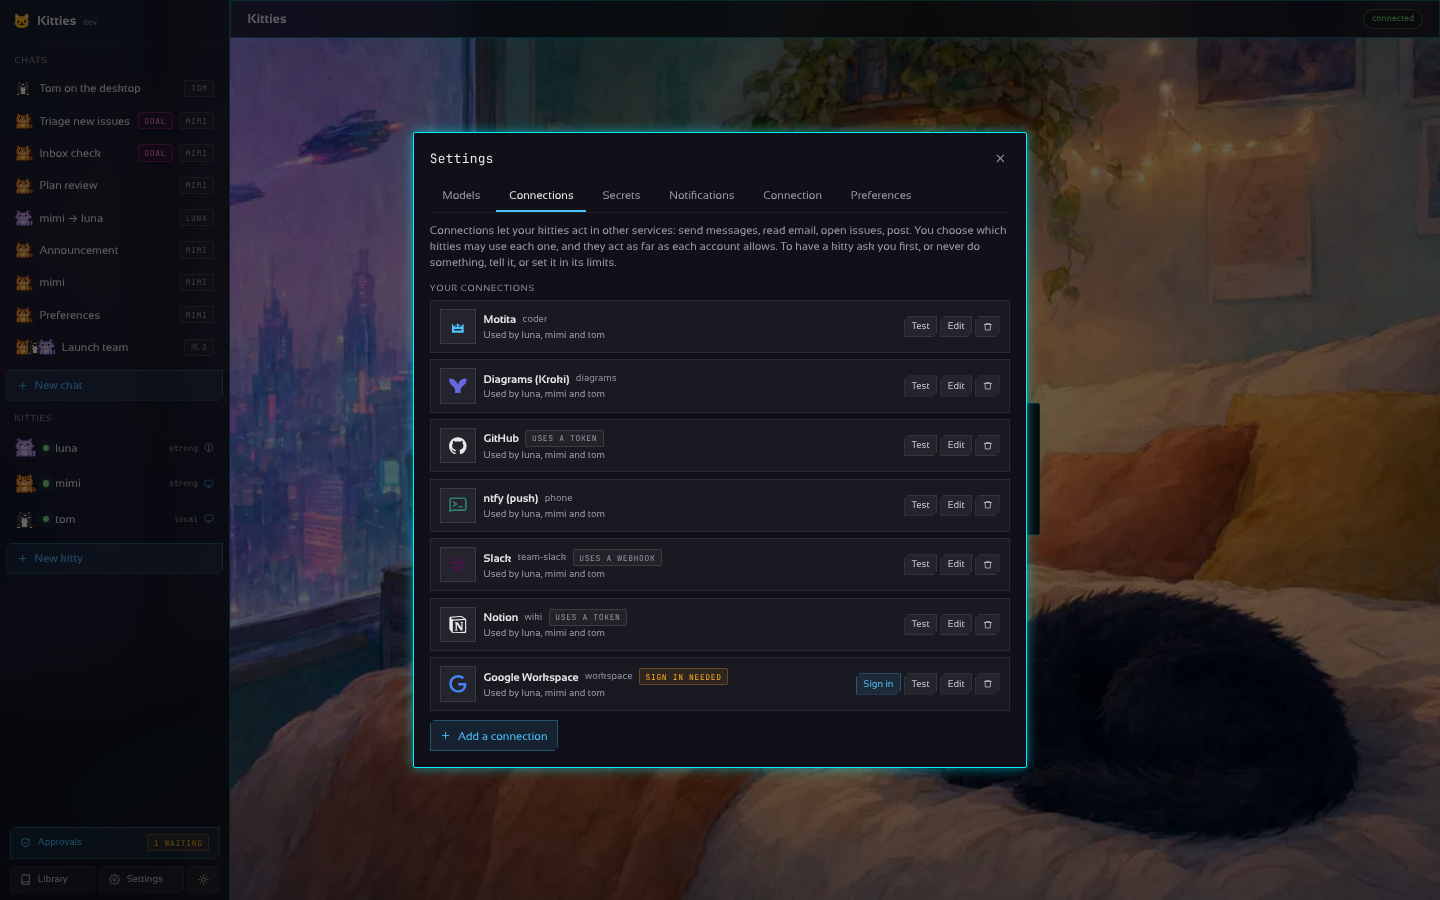
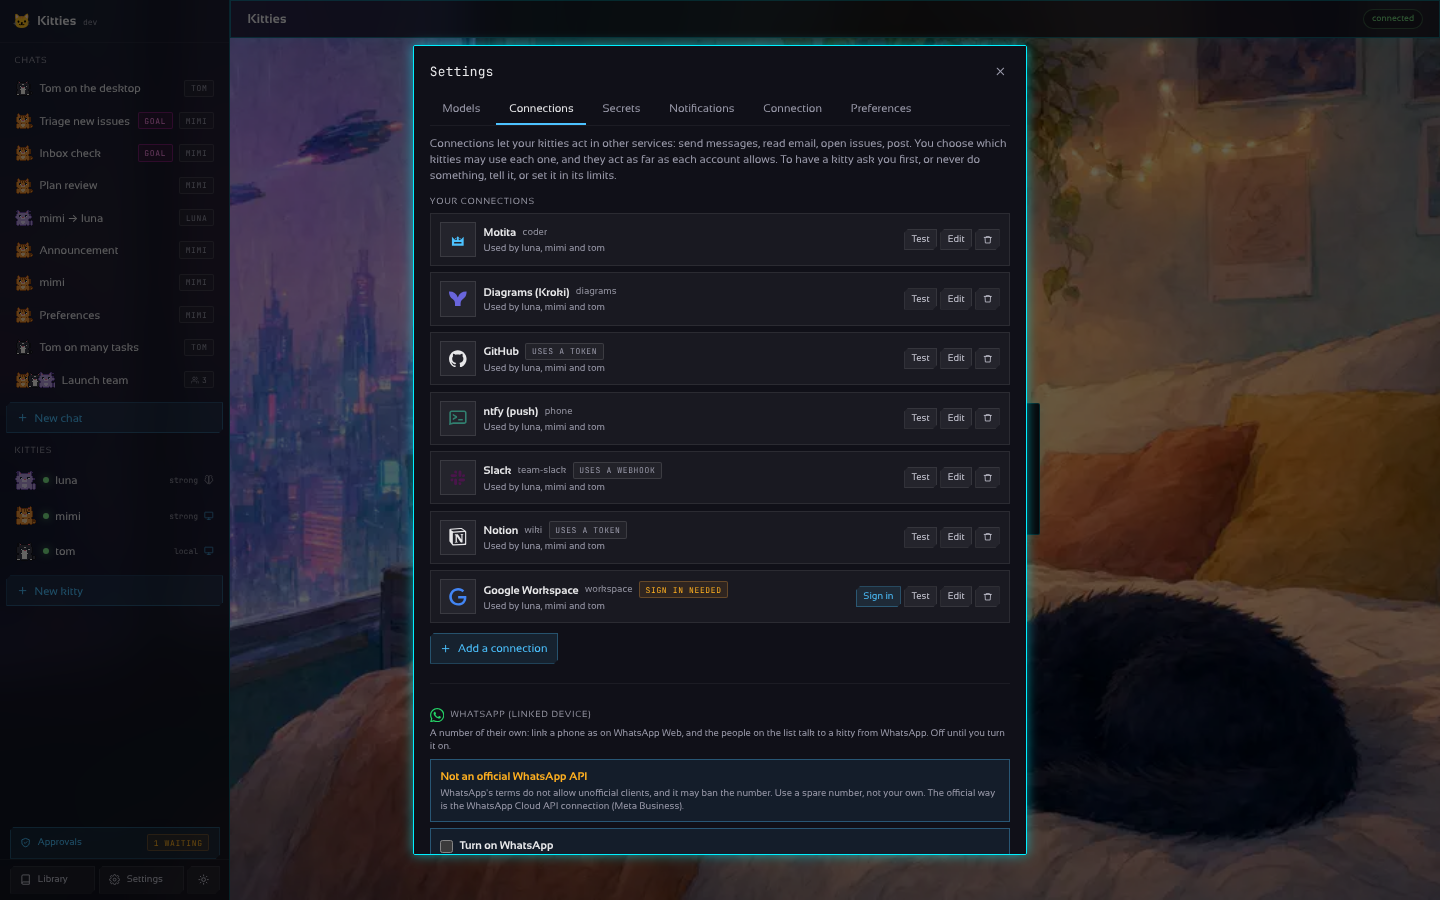
docs(whatsapp): guide in English and Spanish, the ToS risk and the Cloud API alternative
Claude-Session: https://claude.ai/code/session_017Z7sUbSYL2DPKWnmDEkcnW

diff --git a/docs/WHATSAPP.es.md b/docs/WHATSAPP.es.md
@@ -1,0 +1,93 @@
+# WhatsApp: un número propio para los kitties
+
+[In English](WHATSAPP.md)
+
+Kitties puede vincularse a un número de WhatsApp como lo hace WhatsApp Web: como **dispositivo
+vinculado** de un teléfono, con un código QR que aparece en Ajustes. Desde ahí, las personas que
+pongas en la lista escriben a ese número y uno de tus kitties les responde, y los kitties pueden
+escribirles con el conector `whatsapp-web`.
+
+![WhatsApp en Ajustes, esperando el código QR](screenshots/60-settings-whatsapp.png)
+
+> [!WARNING]
+> **No es una API oficial.** Los términos de servicio de WhatsApp no permiten clientes no oficiales
+> ni automatizados, y WhatsApp puede bloquear un número usado así, por un tiempo o para siempre.
+> Usa un **número de repuesto** (otra SIM, una línea prepago), nunca el tuyo, y mantén un uso bajo y
+> personal (nada de envíos masivos ni a desconocidos).
+>
+> **La alternativa oficial** es la [WhatsApp Business Cloud API](https://developers.facebook.com/docs/whatsapp/cloud-api)
+> de Meta: la conexión `whatsapp` del catálogo (Ajustes, Conexiones, Agregar una conexión,
+> WhatsApp) envía mensajes con ella. Necesita una cuenta de Meta Business y un número registrado
+> allí, y fuera de una ventana de 24 horas solo se pueden mandar plantillas aprobadas; a cambio está
+> permitida y no se bloquea por ser automática.
+
+## Activarlo
+
+1. Ajustes, **Conexiones**, la sección **WhatsApp (dispositivo vinculado)** al final.
+2. Elige **el kitty que responde** y agrega los **números que pueden escribir** con su código de
+   país (`+56 9 1234 5678`). La lista parte vacía: hasta que agregues a alguien, se ignora todo
+   mensaje.
+3. Marca **Activar WhatsApp**, luego **Entiendo que WhatsApp puede bloquear este número**, y
+   **Guardar**.
+4. Aparece un código QR. En el teléfono del número de los kitties: WhatsApp, Ajustes,
+   **Dispositivos vinculados**, **Vincular un dispositivo**, y apunta al código. El código cambia
+   cada pocos segundos; si se acaban, **Mostrar un código nuevo**.
+5. Cuando diga **Conectado · +número**, **Enviar una prueba** escribe a un número de la lista.
+
+El teléfono debe seguir encendido y conectarse de vez en cuando (WhatsApp desvincula un dispositivo
+cuyo teléfono lleva unas dos semanas apagado). **Desvincular** quita el dispositivo del teléfono y
+olvida la sesión.
+
+## Cómo funciona
+
+- **Un chat por número.** El primer mensaje de un número abre un chat `WhatsApp: <nombre>` con el
+  kitty elegido; los siguientes van al mismo chat, así que también ves la conversación en la página.
+  La respuesta vuelve a WhatsApp con su Markdown convertido a las marcas de WhatsApp (`*negrita*`,
+  `_cursiva_`). Una tarea en el escritorio se sigue: las primeras palabras van al tiro y el resultado
+  cuando termina.
+- **Solo texto, solo uno a uno.** Todavía no responde grupos, fotos, audios ni stickers.
+- **La lista funciona en ambos sentidos.** Un mensaje de un número que no está se ignora (y se
+  cuenta en Ajustes) sin respuesta; los kitties solo pueden escribir a números de la lista.
+- **Los kitties escriben con el conector.** Mientras el vínculo está conectado, `whatsapp-web` se
+  ofrece a los kitties (los que tienen su lista de conexiones vacía o lo nombran):
+
+  ```
+  @connector whatsapp-web {"action": "send", "to": "+56912345678", "text": "El informe está listo."}
+  @connector whatsapp-web {"action": "status"}
+  ```
+
+  Sin `to` escribe a quien escribió último (o al único número de la lista). Un envío llega a otras
+  personas, así que como todo `send` **queda retenido para tu aprobación** hasta que confíes en el
+  kitty para eso ([AUTONOMY.md](AUTONOMY.md)). Las respuestas a quien escribió no se retienen: lo
+  pidió.
+
+## Dónde se guarda cada cosa
+
+| Qué | Dónde | Cómo |
+| --- | --- | --- |
+| Encendido o no, la lista, el kitty, el chat de cada número | `<data>/whatsapp/settings.json` | modo 0600, sin secretos |
+| La sesión del dispositivo vinculado (sus llaves, las sesiones Signal, los contactos) | `<data>/whatsapp/session.bin` | **sellada** con la llave del vault (AES-256-GCM, atada a su uso); nunca en claro |
+
+La sesión es el estado de la librería guardado en memoria y sellado entero: el gateway no usa un
+archivo SQLite ni otro almacenamiento plano. La llave es la del vault (`vault.key` al lado, o
+`KITTIES_VAULT_KEY`); sin vault (una carpeta de datos de solo lectura) WhatsApp no se puede activar
+y Ajustes dice por qué. Una sesión que no abre con la llave (la llave cambió) no se usa: se vincula
+el teléfono de nuevo con otro código.
+
+## La API
+
+| Ruta | Qué hace |
+| --- | --- |
+| `GET /v1/whatsapp` | El vínculo: `enabled`, `allow`, `kitty`, `state` (`off`, `starting`, `qr`, `qr_expired`, `connected`, `disconnected`, `logged_out`, `error`), `qr` y `qr_png` (un data URL PNG) mientras espera, `phone`, `linked`, `ignored` |
+| `PUT /v1/whatsapp` | `{"enabled", "allow", "kitty"}`; activarlo necesita `"accept_risk": true` |
+| `POST /v1/whatsapp/link` | Códigos QR nuevos (si expiraron o el teléfono quitó el dispositivo) |
+| `POST /v1/whatsapp/unlink` | Quita el dispositivo del teléfono y olvida la sesión |
+| `POST /v1/whatsapp/test` | `{"to": "+56912345678"}` manda un mensaje corto a un número de la lista |
+
+## Por dentro
+
+El protocolo es [whatsmeow](https://github.com/tulir/whatsmeow) (MPL-2.0), el protocolo multi-
+dispositivo de WhatsApp Web en Go. `internal/whatsapp` es el puente (ajustes, lista, chats, conector)
+y no sabe nada del protocolo; `internal/whatsapp/wameow` es la conexión y el almacenamiento en
+memoria que se exporta, se sella y se vuelve a leer. El puente se prueba con un cliente falso; el
+almacenamiento y la conexión, con un falso del cliente de whatsmeow.

diff --git a/docs/WHATSAPP.md b/docs/WHATSAPP.md
@@ -1,0 +1,90 @@
+# WhatsApp: a number of the kitties' own
+
+[En español](WHATSAPP.es.md)
+
+Kitties can link to a WhatsApp number the way WhatsApp Web does: as a **linked device** of a phone,
+with a QR code shown in Settings. Then the people you put on the list write to that number and a
+kitty of yours answers them, and the kitties can write to those people with the `whatsapp-web`
+connector.
+
+![WhatsApp in Settings, waiting for the QR code](screenshots/60-settings-whatsapp.png)
+
+> [!WARNING]
+> **This is not an official API.** WhatsApp's terms of service do not allow unofficial or automated
+> clients, and WhatsApp may ban a number used this way, for a while or for good. Use a **spare
+> number** (a second SIM, a prepaid line), never your personal one, and keep the volume low and
+> personal (no bulk messages, no strangers).
+>
+> **The official alternative** is the [WhatsApp Business Cloud API](https://developers.facebook.com/docs/whatsapp/cloud-api)
+> from Meta: the `whatsapp` connection of the catalogue (Settings, Connections, Add a connection,
+> WhatsApp) sends messages with it. It needs a Meta Business account and a number registered
+> there, and messages outside a 24-hour window must use approved templates; in exchange it is
+> allowed and is not banned for being automated.
+
+## Turning it on
+
+1. Settings, **Connections**, the **WhatsApp (linked device)** section at the end.
+2. Choose **the kitty that answers**, and add the **numbers that may write** with their country
+   code (`+56 9 1234 5678`). The list starts empty: until you add someone, every message is
+   ignored.
+3. Tick **Turn on WhatsApp**, then **I understand that WhatsApp may ban this number**, and **Save**.
+4. A QR code appears. On the phone of the kitties' number: WhatsApp, Settings, **Linked devices**,
+   **Link a device**, and point it at the code. The code changes every few seconds; if they run out,
+   **Show a new code**.
+5. Once it says **Connected · +number**, **Send a test** writes to a number on the list.
+
+The phone must stay on and online from time to time (WhatsApp unlinks a device whose phone has been
+off for about two weeks). **Unlink** removes the device from the phone and forgets the session.
+
+## How it works
+
+- **One chat per number.** The first message of a number opens a chat titled `WhatsApp: <name>`
+  with the chosen kitty; the next ones go to the same chat, so you see the whole conversation on the
+  page too. The kitty's answer goes back to WhatsApp, with its Markdown turned into WhatsApp's own
+  marks (`*bold*`, `_italics_`). A desktop task is followed: the first words go at once and the
+  result when it is done.
+- **Only text, only one-to-one.** Groups, pictures, audio and stickers are not answered yet.
+- **The allow list works both ways.** A message from a number that is not on it is ignored (and
+  counted in Settings), without an answer; the kitties can only write to numbers on it.
+- **The kitties write with the connector.** While the link is connected, `whatsapp-web` is offered
+  to the kitties (those whose connections list is empty or names it):
+
+  ```
+  @connector whatsapp-web {"action": "send", "to": "+56912345678", "text": "The report is ready."}
+  @connector whatsapp-web {"action": "status"}
+  ```
+
+  `to` left out writes to whoever wrote last (or to the only number on the list). A send reaches
+  other people, so like every `send` it is **held for your approval** until you trust the kitty with
+  it ([AUTONOMY.md](AUTONOMY.md)). The answers to a person who wrote are not held: they asked.
+
+## Where things are kept
+
+| What | Where | How |
+| --- | --- | --- |
+| On or off, the list, the kitty, the chat of each number | `<data>/whatsapp/settings.json` | mode 0600, no secrets |
+| The session of the linked device (its keys, the Signal sessions, the contacts) | `<data>/whatsapp/session.bin` | **sealed** with the vault's key (AES-256-GCM, bound to its use); never in the clear |
+
+The session is a blob of the library's state kept in memory and sealed as a whole: the gateway uses
+no SQLite file or any other plain store for it. The key is the vault's (`vault.key` beside it, or
+`KITTIES_VAULT_KEY`); without a vault (a read-only data folder) WhatsApp cannot be turned on and
+Settings says why. A session that cannot be opened with the key (the key changed) is not used: the
+phone is linked again with a new code.
+
+## The API
+
+| Route | What it does |
+| --- | --- |
+| `GET /v1/whatsapp` | The link: `enabled`, `allow`, `kitty`, `state` (`off`, `starting`, `qr`, `qr_expired`, `connected`, `disconnected`, `logged_out`, `error`), `qr` and `qr_png` (a PNG data URL) while it waits, `phone`, `linked`, `ignored` |
+| `PUT /v1/whatsapp` | `{"enabled", "allow", "kitty"}`; turning it on needs `"accept_risk": true` |
+| `POST /v1/whatsapp/link` | New QR codes (after they expired or the phone logged the device out) |
+| `POST /v1/whatsapp/unlink` | Removes the device from the phone and forgets the session |
+| `POST /v1/whatsapp/test` | `{"to": "+56912345678"}` sends a short message to a number on the list |
+
+## Under the hood
+
+The protocol is [whatsmeow](https://github.com/tulir/whatsmeow) (MPL-2.0), the WhatsApp Web
+multi-device protocol in Go. `internal/whatsapp` is the bridge (settings, list, chats, connector) and
+knows nothing of the protocol; `internal/whatsapp/wameow` is the connection and the in-memory store
+that is exported, sealed and read back. The bridge is tested with a fake client, the store and the
+connection with a fake of whatsmeow's client.

diff --git a/docs/CONFIGURATION.md b/docs/CONFIGURATION.md
@@ -39,7 +39,7 @@ turns itself off (15 by default, `0` never, at most a week). Each kitty can have
 
 | Category | Services |
 | --- | --- |
-| Messaging | Slack (webhook, bot token or OAuth sign-in; reads and replies), Discord, Telegram, WhatsApp (Cloud API), Email (SMTP), Matrix, Google Chat, Microsoft Teams, ntfy (push to your phone) |
+| Messaging | Slack (webhook, bot token or OAuth sign-in; reads and replies), Discord, Telegram, WhatsApp (Cloud API, official; or [a linked device](WHATSAPP.md) with a number of their own, unofficial), Email (SMTP), Matrix, Google Chat, Microsoft Teams, ntfy (push to your phone) |
 | Social media | Facebook Pages (post, posts, comments, reply, like, Messenger inbox and answers), Instagram professional accounts (pictures and reels, posts, comments, replies), Mastodon and Bluesky (post, timeline, mentions, reply, like), X, LinkedIn |
 | Calendar, reminders & contacts | CalDAV (iCloud, Fastmail, Nextcloud, Synology…: events, new events, reminders, ticking them off), CardDAV (find and add people), the Mac's own Calendar, Reminders and Contacts (when the gateway runs on the Mac), Google Contacts and Tasks, Outlook contacts and Microsoft To Do |
 | Git | GitHub (issues, comments, pull requests, files; a token or OAuth sign-in), GitLab, Gitea/Forgejo, motita (coding tasks) |

diff --git a/docs/ARCHITECTURE.md b/docs/ARCHITECTURE.md
@@ -95,6 +95,12 @@ cmd/kitties ─▶ gateway ─▶ chat ─▶ orchestrator ─▶ { provider, so
   settings and actions. A kitty writes `@connector github {"action": "create_issue", "title":
   "..."}` in a reply; the runtime runs it and feeds the result back before the kitty answers.
   A connector that answers with a file (a rendered diagram) lands in the artifacts library.
+- **WhatsApp** (`internal/whatsapp`, `internal/whatsapp/wameow`): a number of the kitties' own as a
+  linked device, like WhatsApp Web, linked with a QR code in Settings. The numbers on the allow list
+  (empty by default) talk to the chosen kitty, one chat per number, and the kitties write to them with
+  the `whatsapp-web` connector. The session is kept in memory and sealed with the vault's key. It is
+  the one part with third-party modules ([whatsmeow](https://github.com/tulir/whatsmeow) and what it
+  needs); an unofficial API, off by default: [WHATSAPP.md](WHATSAPP.md).
 - **Skills and artifacts** (`internal/skills`, `internal/artifacts`): a library like motita's.
   Skills are markdown procedures the kitties read with `@skill read <name>` and propose with
   `@skill save` (a person accepts them in the Library); three ship built in. Artifacts are the

diff --git a/docs/API.md b/docs/API.md
@@ -42,4 +42,6 @@
 
 `POST /mcp` is the [MCP connector](MCP.md) (off by default, its own bearer token). `GET /v1/mcp/clients` · `DELETE /v1/mcp/clients/{id}` list and revoke the OAuth clients that signed in. `GET`/`PUT /v1/mcp` read and change the connector's switches (`accept_risk` to turn on exec or approve; the gateway restarts); `GET /v1/mcp/token` returns its token (explicit, never cached) and `POST /v1/mcp/token` rotates it; `POST /v1/mcp/test` asks the connector for its tools and says whether it answers.
 
+`GET`/`PUT /v1/whatsapp` read and change the [WhatsApp link](WHATSAPP.md) (on, the allow list, the kitty that answers; `accept_risk` to turn it on) and give the QR code to scan while it waits; `POST /v1/whatsapp/link` asks for new codes, `POST /v1/whatsapp/unlink` removes the device and forgets its session, and `POST /v1/whatsapp/test` writes to a number on the list.
+
 Every other call needs `Authorization: Bearer <token>`; `/` and `/v1/health` are open.

diff --git a/README.md b/README.md
@@ -103,7 +103,7 @@ Or download the app (it carries its own gateway), from the
 Everything is in [docs/](docs/README.md):
 
 - [Install and first steps](docs/INSTALL.md) · [Desktop and Android apps](docs/APPS.md) · [Run it on a server](docs/DEPLOY.md)
-- [Claude as the orchestrator (MCP)](docs/MCP.md) · [Configuration and connectors](docs/CONFIGURATION.md) · [Autonomy, trust and notifications](docs/AUTONOMY.md)
+- [Claude as the orchestrator (MCP)](docs/MCP.md) · [WhatsApp with a number of their own](docs/WHATSAPP.md) ([español](docs/WHATSAPP.es.md)) · [Configuration and connectors](docs/CONFIGURATION.md) · [Autonomy, trust and notifications](docs/AUTONOMY.md)
 - [How a kitty uses its desktop](docs/DESKTOP.md) ([español](docs/DESKTOP.es.md)) · [The desktop's look and contents](docs/KITTY-DESKTOP.md)
 - [The API](docs/API.md) · [Architecture](docs/ARCHITECTURE.md) · [Development](docs/DEVELOPMENT.md) · [Releases and signing](docs/RELEASING.md)
 

diff --git a/docs/README.md b/docs/README.md
@@ -11,6 +11,7 @@
 | [KITTY-DESKTOP.md](KITTY-DESKTOP.md) | What the desktop is: Lumen shelf, Numix theme, Lucide icons, what is installed |
 | [API.md](API.md) | The gateway's HTTP API |
 | [MCP.md](MCP.md) | Claude as the orchestrator: the MCP connector |
+| [WHATSAPP.md](WHATSAPP.md) · [es](WHATSAPP.es.md) | WhatsApp as a linked device: a number of the kitties' own, the allow list, the risk |
 | [ARCHITECTURE.md](ARCHITECTURE.md) | The packages and how they fit together |
 | [DEVELOPMENT.md](DEVELOPMENT.md) | Build, test, end-to-end run, conventions |
 | [RELEASING.md](RELEASING.md) | How releases are tagged, built and signed |
